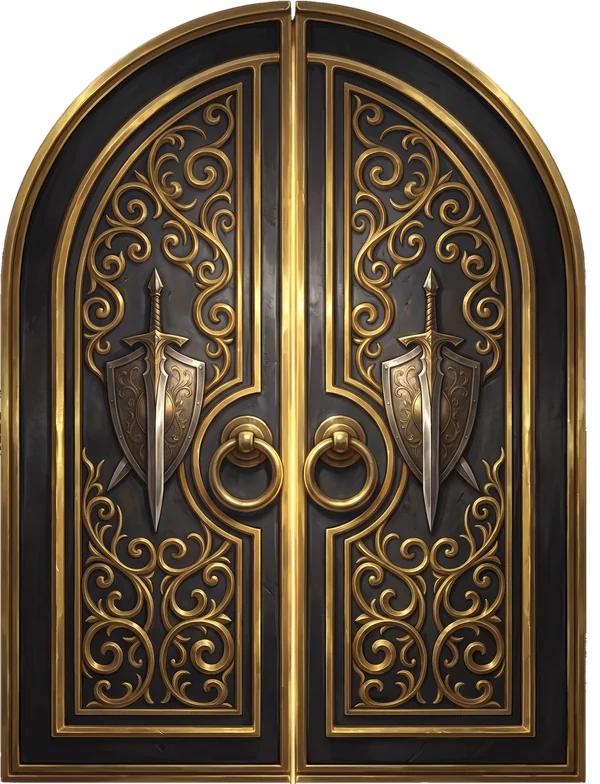
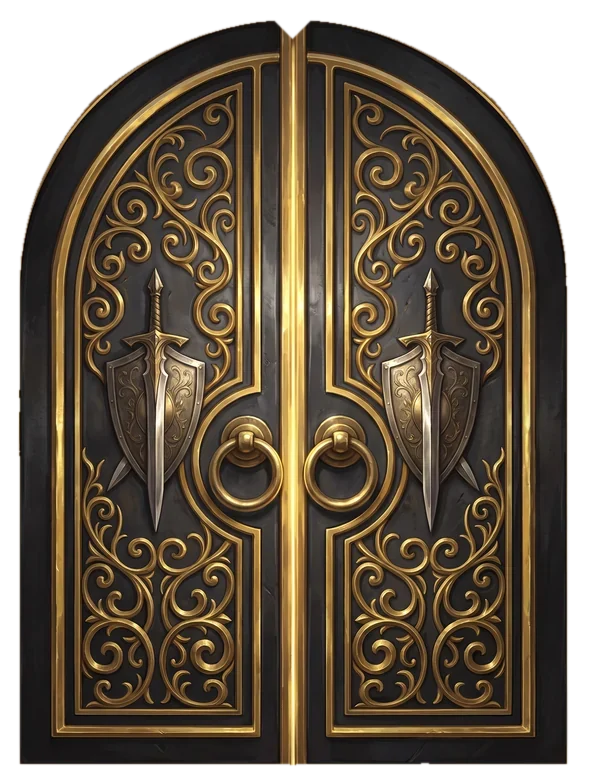
アリーナの扉：光の明滅をやめる・外枠は動かさず扉だけ奥へ開く（きしむ動き・厚み・開くにつれて暗く）・かがり火のゆらぎを穏やかに。対戦のメニューからカード一覧を外す
Claude-Session: https://claude.ai/code/session_01SScYKMx2sjB6BuSXZmESck

Changed region(s): [[0.0, 0.0, 0.99, 1.0]]

diff --git a/css/game.css b/css/game.css
@@ -2981,22 +2981,42 @@ html:has(#app.sdmode),body:has(#app.sdmode){overflow:hidden;overscroll-behavior:
 .ar-door.opening .ar-plate{opacity:0;transition:opacity .5s}
 
 /* 扉の絵（ui/arena-door.webp、左右の扉の境目が真ん中に来るように作ってある） 2026-11-19 */
-.ar-door.art .ar-gate{aspect-ratio:600/784;padding:0;border-radius:0;background:none;box-shadow:none;animation:none;filter:drop-shadow(0 0 14px rgba(255,200,90,.35));animation:argateart 3.2s ease-in-out infinite}
-@keyframes argateart{0%,100%{filter:drop-shadow(0 0 10px rgba(255,200,90,.3))}50%{filter:drop-shadow(0 0 22px rgba(255,200,90,.6))}}
+/* 光の明滅はやめて、扉の後ろにうっすら明かりを置くだけ（チカチカして目に障るため）。
+   filter は扉の立体（厚み）を平らにしてしまうので使わない */
+.ar-door.art .ar-gate{aspect-ratio:600/784;padding:0;border-radius:0;background:none;box-shadow:none;animation:none;perspective:700px}
+.ar-door.art .ar-gate::after{content:"";position:absolute;inset:-8% -14% -4%;z-index:-1;background:radial-gradient(ellipse at 50% 45%,rgba(255,200,90,.22),transparent 65%);pointer-events:none}
 .ar-door.art .ar-gate::before,.ar-door.art .ar-glow{inset:2% 3% 0;border-radius:0;-webkit-mask:url(../ui/arena-door.webp) center/100% 100% no-repeat;mask:url(../ui/arena-door.webp) center/100% 100% no-repeat}
-.ar-door.art .ar-leaf{top:0;bottom:0;width:50%;border-radius:0;background-color:transparent;background-repeat:no-repeat}
+/* 扉：奥へ開く（手前に開くと裏返って消えて見えた）。合わせ目の側に厚み（側面）をつける */
+.ar-door.art .ar-leaf{top:0;bottom:0;width:50%;border-radius:0;background-color:transparent;background-repeat:no-repeat;transform-style:preserve-3d;backface-visibility:visible;transition:none}
 .ar-door.art .ar-leaf.l{left:0}.ar-door.art .ar-leaf.r{right:0}
-.ar-door.art.opening .ar-gate{animation:none;filter:drop-shadow(0 0 30px rgba(255,210,120,.8))}
+/* 外枠（動かない）。扉は枠の内側だけが開く */
+.ar-frame{position:absolute;inset:0;z-index:2;background:url(../ui/arena-door-frame.webp) center/100% 100% no-repeat;pointer-events:none}
+.ar-edge{position:absolute;top:3%;bottom:2.5%;width:13%;pointer-events:none;
+  background:linear-gradient(90deg,#3a2a10,#a87a2a 30%,#f0cf7a 50%,#a87a2a 70%,#3a2a10),#1a140c;box-shadow:inset 0 0 0 1px rgba(0,0,0,.5)}
+.ar-leaf.l .ar-edge{left:100%;transform-origin:left center;transform:rotateY(90deg)}
+.ar-leaf.r .ar-edge{right:100%;transform-origin:right center;transform:rotateY(-90deg)}
+.ar-door:not(.art) .ar-edge{display:none}
+/* 開くにつれて扉の面が暗くなる（光が当たらなくなる） */
+.ar-door.art .ar-leaf::after{content:"";position:absolute;inset:0;background:#000;opacity:0;pointer-events:none;-webkit-mask:url(../ui/arena-door.webp) left top/200% 100% no-repeat;mask:url(../ui/arena-door.webp) left top/200% 100% no-repeat}
+.ar-door.art .ar-leaf.r::after{-webkit-mask-position:right top;mask-position:right top}
+.ar-door.art.opening .ar-leaf::after{animation:arshade 2.1s ease-in forwards}
+@keyframes arshade{0%,20%{opacity:0}100%{opacity:.55}}
+.ar-door.art.opening .ar-leaf.l{animation:arleafL 2.1s cubic-bezier(.5,0,.35,1) forwards}
+.ar-door.art.opening .ar-leaf.r{animation:arleafR 2.1s cubic-bezier(.5,0,.35,1) forwards}
+/* 最初に少しだけ動いて止まり（重い扉がきしむ）、それからゆっくり奥へ */
+@keyframes arleafL{0%{transform:rotateY(0)}12%{transform:rotateY(5deg)}22%{transform:rotateY(3deg)}100%{transform:rotateY(76deg)}}
+@keyframes arleafR{0%{transform:rotateY(0)}12%{transform:rotateY(-5deg)}22%{transform:rotateY(-3deg)}100%{transform:rotateY(-76deg)}}
+.ar-door.art.opening .ar-gate{transform:scale(1.05);transition:transform 2.2s ease-in}
 /* 扉の左右のかがり火（ui/arena-torch.webp。右は左右反転）。炎の明かりのゆらぎと火の粉を重ねる 2026-11-19 */
 .ar-side{position:absolute;bottom:0;height:86%;aspect-ratio:177/560;background:url(../ui/arena-torch.webp) center/100% 100% no-repeat;pointer-events:none}
 .ar-side.l{right:calc(100% + 4px)}
 .ar-side.r{left:calc(100% + 4px);transform:scaleX(-1)}
-.ar-side::before{content:"";position:absolute;left:-20%;width:130%;top:-10%;height:42%;background:radial-gradient(ellipse at 50% 55%,rgba(255,200,110,.5),rgba(255,120,40,.18) 45%,transparent 70%);mix-blend-mode:screen;animation:arflick 1.7s ease-in-out infinite}
+.ar-side::before{content:"";position:absolute;left:-20%;width:130%;top:-10%;height:42%;background:radial-gradient(ellipse at 50% 55%,rgba(255,200,110,.5),rgba(255,120,40,.18) 45%,transparent 70%);mix-blend-mode:screen;animation:arflick 3.6s ease-in-out infinite}
 .ar-side.r::before{animation-delay:-.8s}
 .ar-side i{position:absolute;left:40%;top:14%;width:3px;height:3px;border-radius:50%;background:#ffd27a;box-shadow:0 0 4px #ffb347;opacity:0;animation:arember 2.4s linear infinite}
 .ar-side i::before,.ar-side i::after{content:"";position:absolute;width:2px;height:2px;border-radius:50%;background:#ffc060;box-shadow:0 0 3px #ff9a3c}
 .ar-side i::before{left:-9px;top:6px}.ar-side i::after{left:8px;top:3px}
 .ar-side.r i{animation-delay:-1.2s}
-@keyframes arflick{0%,100%{opacity:.75;transform:scale(1)}20%{opacity:1;transform:scale(1.05,1.08)}45%{opacity:.6;transform:scale(.97)}70%{opacity:.95;transform:scale(1.03,1.06)}}
+@keyframes arflick{0%,100%{opacity:.85;transform:scale(1)}30%{opacity:.95;transform:scale(1.02,1.03)}60%{opacity:.8;transform:scale(.99)}80%{opacity:.92;transform:scale(1.01,1.02)}}
 @keyframes arember{0%{opacity:0;transform:translate(0,0)}15%{opacity:1}100%{opacity:0;transform:translate(6px,-60px)}}
 @media (prefers-reduced-motion:reduce){.ar-side::before,.ar-side i{animation:none}}

diff --git a/js/arena.js b/js/arena.js
@@ -44,8 +44,9 @@ const Arena = {
     return `<div class="ar-door${art ? " art" : ""}" id="ar-door">
       <button type="button" class="ar-gate" data-act="arenaDoor" aria-label="アリーナの扉を開く（${ARENA_RULES[c.rule].name}・${this.hm(c.end)}まで）">
         <span class="ar-glow" aria-hidden="true"></span>
-        <span class="ar-leaf l" aria-hidden="true"${art ? ` style="background-image:url('${art}')"` : ""}></span>
-        <span class="ar-leaf r" aria-hidden="true"${art ? ` style="background-image:url('${art}')"` : ""}></span>
+        <span class="ar-leaf l" aria-hidden="true"${art ? ` style="background-image:url('${art}')"` : ""}><i class="ar-edge"></i></span>
+        <span class="ar-leaf r" aria-hidden="true"${art ? ` style="background-image:url('${art}')"` : ""}><i class="ar-edge"></i></span>
+        ${art ? `<span class="ar-frame" aria-hidden="true"></span>` : ""}
         <span class="ar-side l" aria-hidden="true"><i></i></span><span class="ar-side r" aria-hidden="true"><i></i></span>
       </button>
       <div class="ar-plate"><b>アリーナ開催中</b><span>${ARENA_RULES[c.rule].name} ・ ${this.hm(c.end)}まで</span><small>扉をタップ</small></div>
@@ -57,7 +58,7 @@ const Arena = {
     d.classList.add("opening");
     if (typeof Sound !== "undefined") Sound.play("creak");
     const slow = !(typeof Motion !== "undefined" && Motion.reduced);
-    setTimeout(() => { const f = document.createElement("div"); f.className = "ar-flash"; document.body.appendChild(f); setTimeout(() => { this.show(); setTimeout(() => f.classList.add("out"), 30); setTimeout(() => f.remove(), 700); }, slow ? 420 : 0); }, slow ? 1700 : 0);
+    setTimeout(() => { const f = document.createElement("div"); f.className = "ar-flash"; document.body.appendChild(f); setTimeout(() => { this.show(); setTimeout(() => f.classList.add("out"), 30); setTimeout(() => f.remove(), 700); }, slow ? 420 : 0); }, slow ? 2000 : 0);
   },
   next(now = Date.now()) { return this.sessions(now).find(x => x.start > now) || null; },
   hm(ms) { const t = new Date(ms + JST); return `${t.getUTCHours()}:${String(t.getUTCMinutes()).padStart(2, "0")}`; },

diff --git a/sw.js b/sw.js
@@ -1,7 +1,7 @@
 /* オフラインでも遊べるようにするためのサービスワーカー。
    通信できるときは常に最新を取りに行き（ネットワーク優先）、
    通信できないときだけ保存しておいた内容を使う。 */
-const CACHE = "kyokai-v327";
+const CACHE = "kyokai-v328";
 const SHELL = [
   "./", "index.html", "game-data.json",
   "css/base.css", "css/game.css", "js/shared.js", "js/net.js", "js/sound.js", "js/bgm.js", "js/game.js", "js/motion.js", "js/finale.js", "js/vfx.js", "js/mull.js", "js/cinema.js", "js/account.js", "js/pack.js", "js/shop.js", "js/quest.js", "js/tutorial.js", "js/titles.js", "js/skins.js", "js/showcase.js", "js/sentei.js", "js/deck.js", "js/feedback.js", "js/serial.js", "js/inbox.js", "js/splash.js", "js/online.js", "js/arena.js", "js/simlab.js",

diff --git a/js/game.js b/js/game.js
@@ -2330,7 +2330,6 @@ function showMenu() {
     <button type="button" class="btn primary" data-act="closeOverlay">対戦に戻る</button>
     <div class="menu list">
       <button type="button" class="mi" data-act="log"><span>プレイログ<small>これまでの行動を見る</small></span></button>
-      <button type="button" class="mi" data-act="cards"><span>カード一覧<small>すべてのカードの効果</small></span></button>
       <button type="button" class="mi" data-act="rules"><span>ルール<small>遊び方・カードの能力</small></span></button>
       ${online && S && !S.over
         ? `<button type="button" class="mi danger" data-act="surrender"><span>降参してタイトルに戻る<small>この対戦は負けになります</small></span></button>`

diff --git a/HANDOFF.md b/HANDOFF.md
@@ -28,6 +28,8 @@
 - Firebase のルール（database.rules.json）を変えたら、オーナーに Firebase の画面へ貼り直してもらう
 
 - アリーナ（js/arena.js）：開催は game-data.json の `arena`（曜日ごとのルール days[日〜土]・start/end・特別な回 extra[{date,start,end,rule}]）。オーナーが「この時間にする」と言ったら extra に足す。運営アカウントはいつでも「テスト」の回に入れる
+- 【いつか直す】オンライン対戦の弱点：進行（持ち時間の時間切れ）は部屋を作った人の端末だけが処理する。部屋を作った人がアプリを閉じずに別のアプリへ切り替えて放置すると、接続は切れていない扱いのまま端末側の処理が止まり、時間切れが来ない。直すなら、参加者の画面でも締め切りを見張り、締め切りを大きく過ぎても盤面が来なければ「相手の応答なし」で勝ちにする（2026-11-19 オーナー了承済みの保留）
+- オンライン対戦：相手の接続が60秒切れたままなら、こちらの勝ち（Online.offLimit）。参加者が勝ちとして出たときは left に "win" を書き、戻ってきた部屋主は負けになる
 
 ## 現在のルール
 - デッキ30枚・同名3枚・体力20・エナジー上限10・場は4体まで・初期手札5枚・手札上限10枚
